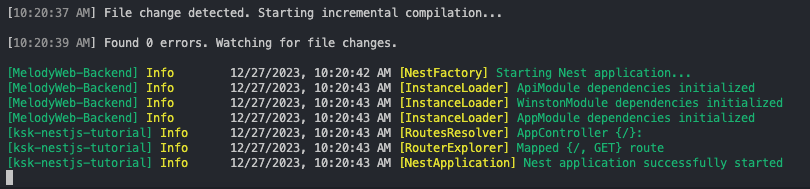
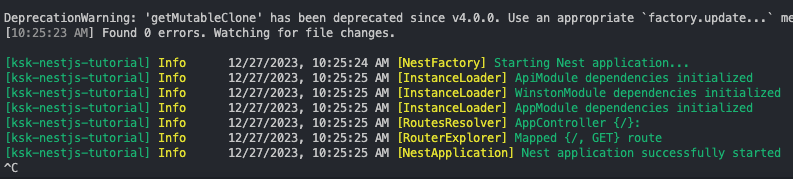
사진 수정, 코드 일부분 수정

Changed region(s): [[0.2724, 0.3073, 0.9987, 0.8939], [0.0, 0.0279, 1.0, 0.2514], [0.0, 0.3073, 0.2421, 0.9777]]

diff --git a/project/src/main.ts b/project/src/main.ts
@@ -13,7 +13,7 @@ async function bootstrap() {
         new winston.transports.Console({
           format: winston.format.combine(
             winston.format.timestamp(),
-            nestWinstonModuleUtilities.format.nestLike('MelodyWeb-Backend', { prettyPrint: true, colors: true }),
+            nestWinstonModuleUtilities.format.nestLike('ksk-nestjs-tutorial', { prettyPrint: true, colors: true }),
           ),
         }),
         // 아래 부분은 모두 로그를 기록하고 싶을때 사용하는 코드이다. 만약에 로그를 기록하고 싶다면 주석을 해제하면 된다.
